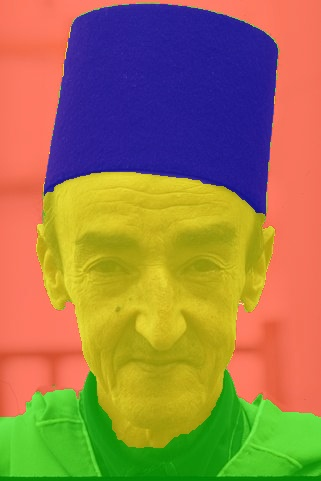
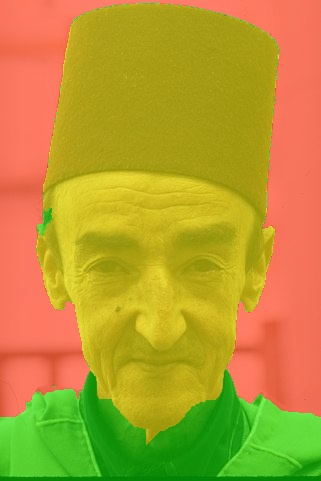
added up to 4 segmentation support

diff --git a/Assignment_1/Multi_Segmentation.py b/Assignment_1/Multi_Segmentation.py
@@ -27,13 +27,15 @@ SEG_ONE_COLOR = (0, 255, 0)
 SEG_TWO_COLOR = (255, 0, 0)
 SEG_THREE_COLOR = (0, 255, 255)
 
+INIT_REQUIRED_COUNTER = 2
 
 """
     Computation unit which calculates the grabcut to multi-classes objects
 """
 class ImGraph:
-    def __init__(self, image):
+    def __init__(self, image, seg_counter):
         self.img = image
+        self.segments_counter = seg_counter
 
     """
         seg2mask - mapping from segments to mask colors
@@ -74,7 +76,7 @@ class ImGraph:
         f0_complement = np.ones(self.img.shape[:2], dtype=np.uint8) - self.calc_bin_grabcut(seg1 + seg2 + seg3, seg0)
 
         # voting per segment
-        f0 = (2 * f0_123) + f0_12 + f0_13 + f0_23 + f0_1 + f0_2 + f0_3 + f0_complement
+        f0 = f0_1 + f0_2 + f0_3 + f0_complement + f0_12 + f0_13 + f0_23 + (2 * f0_123)
         return f0, f0_complement
 
 
@@ -121,8 +123,11 @@ class ImGraph:
         print("\nProcessing", inputImage, "..")
         f0, f0_complement = self.calc_grabcut_combinations(seg0, seg1, seg2, seg3)
         f1, f1_complement = self.calc_grabcut_combinations(seg1, seg0, seg2, seg3)
-        f2, f2_complement = self.calc_grabcut_combinations(seg2, seg1, seg0, seg3)
-        f3, f3_complement = self.calc_grabcut_combinations(seg3, seg1, seg2, seg0)
+        f2 = f2_complement = f3 = f3_complement = np.zeros(self.img.shape[:2], dtype=np.uint8)
+        if self.segments_counter == 3:
+            f2, f2_complement = self.calc_grabcut_combinations(seg2, seg1, seg0, seg3)
+        elif self.segments_counter == 4:
+            f3, f3_complement = self.calc_grabcut_combinations(seg3, seg1, seg2, seg0)
         print("Done grab-cut computations..")
 
         ## extract empty pixels:
@@ -303,12 +308,26 @@ class Interactive:
             if k == 27:
                 break
 
+
+        if not (seg0 and seg1):
+            print("At least 2 segments are required.")
+            exit(-1)
+
+
         """
             graph cut implementation for 4 segments
             add functions and code as you wish
         """
+
+        seg_counter = INIT_REQUIRED_COUNTER
+        if not seg2:
+            seg_counter = INIT_REQUIRED_COUNTER + 1
+        if not seg3:
+            seg_counter = INIT_REQUIRED_COUNTER + 2
+
         # keeping important data as in object creation
-        ig = ImGraph(orig_img)
+        ig = ImGraph(orig_img, seg_counter)
+
         final_mask = ig.calc_multivoting_grabcut()
 
         print("Displaying results..")
